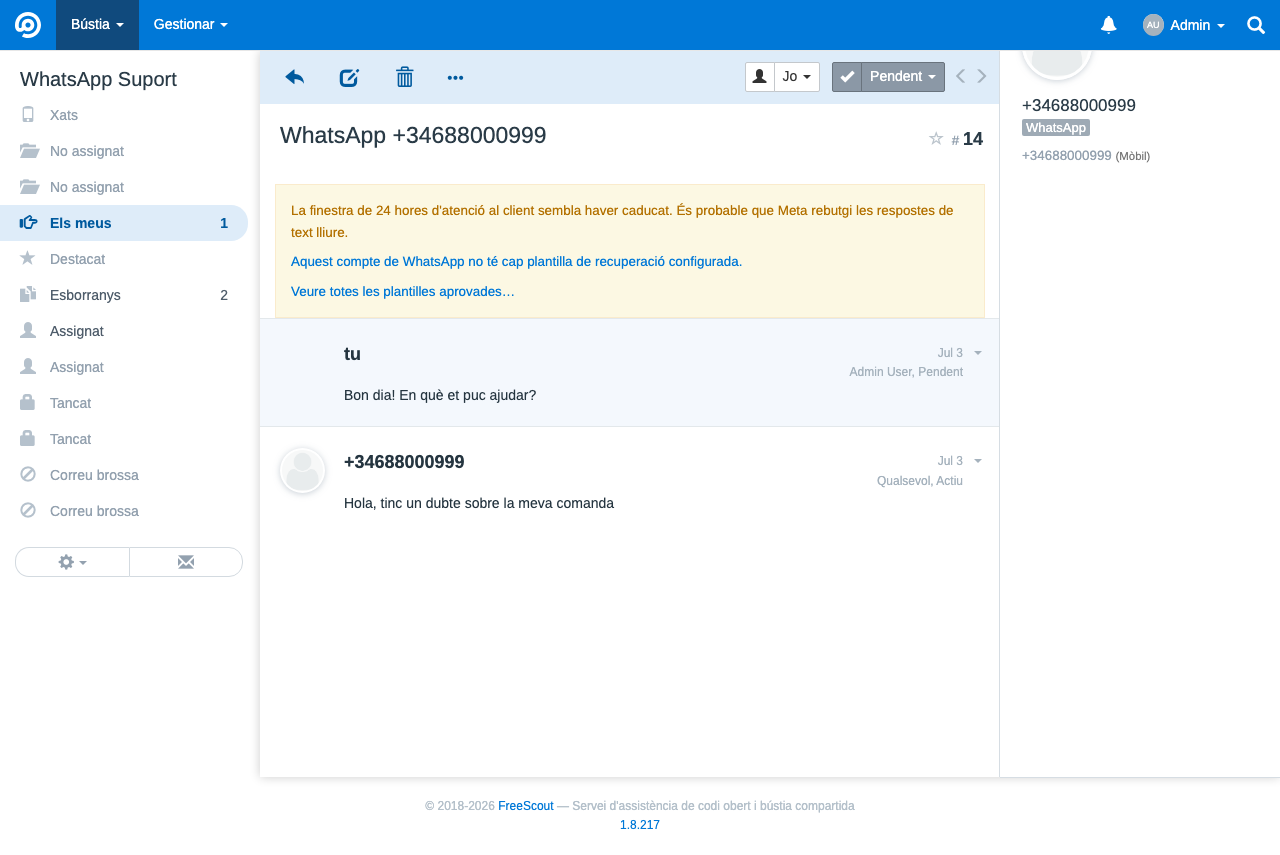
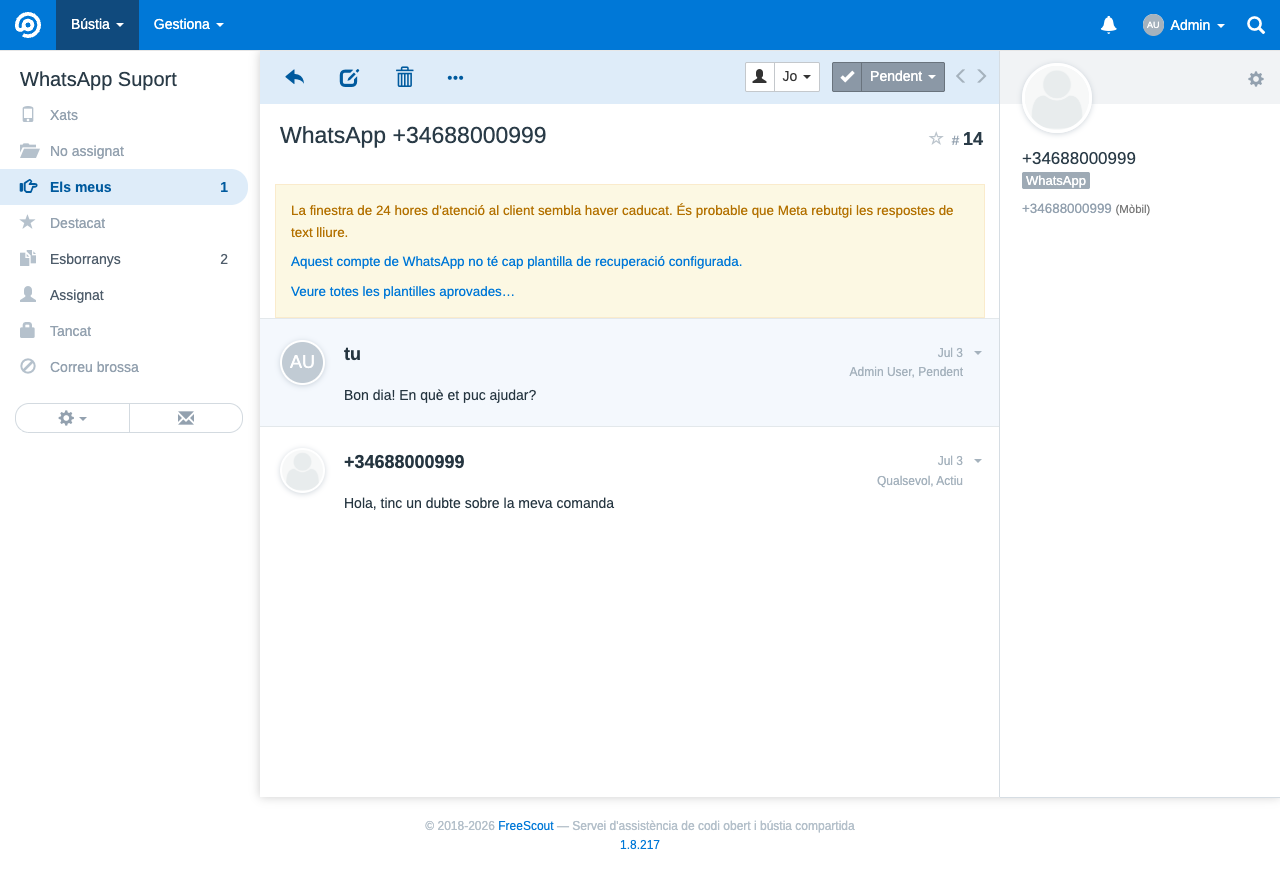
Remove the duplicate folders created with every new mailbox
The account form saved the mailbox and then called createPublicFolders()
itself, unaware that the core MailboxObserver already runs it on the `created`
model event, and that it inserts without checking. Every mailbox created by
the module ended up with two copies of Unassigned, Drafts, Assigned, Closed,
Deleted and Spam. Personal folders were spared, because createUsersFolders()
skips users that already have them, which is why the sidebar showed a mix of
single and doubled entries.

Present since the first release, and visible in the README conversation
screenshot all along.

- The controller no longer creates folders; core owns that.
- A migration removes the duplicates on mailboxes linked to a WhatsApp
  account, remapping conversations and the conversation_folder pivot first, so
  nothing that lived in the copy being deleted is lost. Mailboxes the module
  never created are left alone.
- MailboxFoldersTest covers both directions: the module must not duplicate,
  and core must keep creating them.
- Conversation screenshots retaken in the three languages.

Closes #30

diff --git a/Database/Migrations/2026_08_31_000001_remove_duplicate_mailbox_folders.php b/Database/Migrations/2026_08_31_000001_remove_duplicate_mailbox_folders.php
@@ -1,0 +1,132 @@
+<?php
+
+use Illuminate\Database\Migrations\Migration;
+use Illuminate\Support\Facades\DB;
+use Illuminate\Support\Facades\Log;
+use Illuminate\Support\Facades\Schema;
+
+/**
+ * Repairs the duplicate folders left behind by issue #30.
+ *
+ * Until this release the account form created the mailbox and then called
+ * createPublicFolders() itself, unaware that the core MailboxObserver already
+ * does exactly that on the `created` model event. createPublicFolders() inserts
+ * unconditionally, so every mailbox the module created got two copies of
+ * Unassigned, Drafts, Assigned, Closed, Deleted and Spam. Personal folders were
+ * spared because createUsersFolders() skips users that already have them.
+ *
+ * Only mailboxes linked to a WhatsApp account are touched. Duplicates elsewhere
+ * would not come from this module, and a module has no business reshaping the
+ * folder list of a mailbox it does not own.
+ */
+class RemoveDuplicateMailboxFolders extends Migration
+{
+    public function up()
+    {
+        if (!Schema::hasTable('meta_whatsapp_accounts') || !Schema::hasTable('folders')) {
+            return;
+        }
+
+        $mailboxIds = DB::table('meta_whatsapp_accounts')
+            ->whereNotNull('mailbox_id')
+            ->distinct()
+            ->pluck('mailbox_id')
+            ->all();
+
+        if (!$mailboxIds) {
+            return;
+        }
+
+        $groups = DB::table('folders')
+            ->select('mailbox_id', 'user_id', 'type')
+            ->whereIn('mailbox_id', $mailboxIds)
+            ->groupBy('mailbox_id', 'user_id', 'type')
+            ->havingRaw('count(*) > 1')
+            ->get();
+
+        $removed  = 0;
+        $affected = [];
+
+        foreach ($groups as $group) {
+            $ids = DB::table('folders')
+                ->where('mailbox_id', $group->mailbox_id)
+                ->where('type', $group->type)
+                ->when(
+                    $group->user_id === null,
+                    function ($query) {
+                        return $query->whereNull('user_id');
+                    },
+                    function ($query) use ($group) {
+                        return $query->where('user_id', $group->user_id);
+                    }
+                )
+                ->orderBy('id')
+                ->pluck('id')
+                ->all();
+
+            // The oldest row is the one the observer created, and the one the
+            // counters and any existing conversations already point at.
+            $keep    = array_shift($ids);
+            $discard = $ids;
+
+            if (!$discard) {
+                continue;
+            }
+
+            DB::table('conversations')->whereIn('folder_id', $discard)->update(['folder_id' => $keep]);
+
+            // conversation_folder has a UNIQUE(folder_id, conversation_id), and
+            // the same conversation may sit in both copies, so the rows are
+            // collected and re-inserted rather than updated in place.
+            $conversationIds = DB::table('conversation_folder')
+                ->whereIn('folder_id', $discard)
+                ->distinct()
+                ->pluck('conversation_id')
+                ->all();
+
+            DB::table('conversation_folder')->whereIn('folder_id', $discard)->delete();
+
+            if ($conversationIds) {
+                $existing = DB::table('conversation_folder')
+                    ->where('folder_id', $keep)
+                    ->pluck('conversation_id')
+                    ->all();
+
+                foreach (array_chunk(array_diff($conversationIds, $existing), 500) as $chunk) {
+                    DB::table('conversation_folder')->insert(array_map(function ($conversationId) use ($keep) {
+                        return ['folder_id' => $keep, 'conversation_id' => $conversationId];
+                    }, $chunk));
+                }
+            }
+
+            DB::table('folders')->whereIn('id', $discard)->delete();
+
+            $removed += count($discard);
+            $affected[$group->mailbox_id] = true;
+        }
+
+        if (!$removed) {
+            return;
+        }
+
+        foreach (array_keys($affected) as $mailboxId) {
+            $mailbox = \App\Mailbox::find($mailboxId);
+            if ($mailbox) {
+                $mailbox->updateFoldersCounters();
+            }
+        }
+
+        Log::info('[MetaWhatsApp] Removed duplicate mailbox folders (issue #30)', [
+            'folders_removed' => $removed,
+            'mailbox_ids'     => array_keys($affected),
+        ]);
+    }
+
+    /**
+     * Deliberately empty: the duplicates were a defect, not data. Recreating
+     * them on rollback would only put the sidebar back the way it was broken.
+     */
+    public function down()
+    {
+    }
+}

diff --git a/Tests/MailboxFoldersTest.php b/Tests/MailboxFoldersTest.php
@@ -1,0 +1,119 @@
+<?php
+
+namespace Modules\MetaWhatsApp\Tests;
+
+use App\Folder;
+use App\Mailbox;
+use App\User;
+use Illuminate\Foundation\Testing\DatabaseTransactions;
+use Modules\MetaWhatsApp\Models\WhatsAppAccount;
+use Modules\MetaWhatsApp\Services\WhatsAppApiClient;
+
+/**
+ * Issue #30: creating a channel with "New mailbox" produced two copies of
+ * every public folder in the sidebar (Unassigned, Drafts, Assigned, Closed,
+ * Deleted, Spam). The controller called createPublicFolders() after saving the
+ * mailbox, not knowing the core MailboxObserver already does it on the
+ * `created` model event, and createPublicFolders() inserts unconditionally.
+ *
+ * Personal folders (Mine, Starred) were never duplicated, because
+ * createUsersFolders() skips users that already have folders -- which is
+ * exactly why the sidebar showed a mix of single and doubled entries.
+ */
+class MailboxFoldersTest extends TestCase
+{
+    use DatabaseTransactions;
+
+    protected function makeAdminUser(): User
+    {
+        $admin = new User();
+        $admin->first_name = 'Admin';
+        $admin->last_name  = 'Test';
+        $admin->email      = 'admin-' . uniqid() . '@example.com';
+        $admin->password   = bcrypt('secret');
+        $admin->role       = User::ROLE_ADMIN;
+        $admin->save();
+
+        return $admin;
+    }
+
+    /**
+     * The webhook subscription is a real HTTP call in store(); the folder
+     * count does not depend on its outcome, so it is stubbed out.
+     */
+    protected function fakeWebhookSubscription(): void
+    {
+        $this->app->bind(WhatsAppApiClient::class, function ($app, $parameters) {
+            return new class ($parameters['account']) extends WhatsAppApiClient {
+                public function subscribeWebhook(): array
+                {
+                    return ['ok' => true, 'error_code' => null, 'error_message' => null];
+                }
+            };
+        });
+    }
+
+    protected function storePayload(array $overrides = []): array
+    {
+        $phoneNumberId = 'test' . mt_rand(100000000, 999999999);
+
+        return array_merge([
+            'name'            => 'PHPUnit WhatsApp',
+            'phone_number'    => '+34600999888',
+            'phone_number_id' => $phoneNumberId,
+            'waba_id'         => 'test-waba',
+            'verify_token'    => bin2hex(random_bytes(32)),
+            'access_token'    => self::TEST_ACCESS_TOKEN . '-long-enough',
+            'app_secret'      => self::TEST_APP_SECRET . '-long-enough',
+            'mailbox_mode'    => 'new',
+            'mailbox_name'    => 'PHPUnit WhatsApp Mailbox',
+        ], $overrides);
+    }
+
+    public function test_new_mailbox_gets_exactly_one_folder_per_public_type()
+    {
+        $this->fakeWebhookSubscription();
+        $admin   = $this->makeAdminUser();
+        $payload = $this->storePayload();
+
+        $this->actingAs($admin)
+            ->withoutMiddleware(\App\Http\Middleware\VerifyCsrfToken::class)
+            ->post($this->url('/meta-whatsapp/settings'), $payload);
+
+        $account = WhatsAppAccount::where('phone_number_id', $payload['phone_number_id'])->first();
+        $this->assertNotNull($account, 'the account was not created');
+
+        foreach (Folder::$public_types as $type) {
+            $this->assertEquals(
+                1,
+                Folder::where('mailbox_id', $account->mailbox_id)->where('type', $type)->count(),
+                'public folder type ' . $type . ' is duplicated in the new mailbox (issue #30)'
+            );
+        }
+    }
+
+    /**
+     * The same assertion stated the other way round, so the test still fails
+     * if a future core release moves folder creation out of the observer:
+     * the mailbox must end up with folders without the module creating any.
+     */
+    public function test_saving_a_mailbox_alone_already_creates_its_folders()
+    {
+        $mailbox = new Mailbox();
+        $mailbox->name       = 'PHPUnit folders';
+        $mailbox->email      = 'whatsapp-folders-' . uniqid() . '@channel.internal';
+        $mailbox->out_method = Mailbox::OUT_METHOD_PHP_MAIL;
+        $mailbox->in_server  = '';
+        $mailbox->out_server = '';
+        $mailbox->save();
+
+        foreach (Folder::$public_types as $type) {
+            $this->assertEquals(
+                1,
+                Folder::where('mailbox_id', $mailbox->id)->where('type', $type)->count(),
+                'the core observer no longer creates public folder type ' . $type
+                . '; the module relies on it since issue #30'
+            );
+        }
+    }
+}

diff --git a/Resources/lang/nl/metawhatsapp.php b/Resources/lang/nl/metawhatsapp.php
@@ -48,7 +48,7 @@ return [
     'template_cost_warning'        => 'Meta rekent per afgeleverd templatebericht kosten.',
     'template_lang'                => 'Taalcode van het template',
     'template_threshold'           => 'Drempel voor een verlopen venster (minuten)',
-    'template_threshold_help'      => 'Meta hanteert een venster van 24 uur na het laatste bericht van de klant. Deze instelling bepaalt alleen wanneer de module het venster als verlopen gaat behandelen, als eigen veiligheidsmarge — de regel van Meta verandert er niet door. <a href="https://developers.facebook.com/documentation/business-messaging/whatsapp/messages/send-messages" target="_blank" rel="noopener">Bekijk de documentatie van Meta</a>.',
+    'template_threshold_help'      => 'Meta hanteert een venster van 24 uur na het laatste bericht van de klant. Deze instelling bepaalt alleen wanneer de module het venster als verlopen gaat behandelen, als eigen veiligheidsmarge - de regel van Meta verandert er niet door. <a href="https://developers.facebook.com/documentation/business-messaging/whatsapp/messages/send-messages" target="_blank" rel="noopener">Bekijk de documentatie van Meta</a>.',
 
     'templates_multi_help'         => 'Maximaal vijf templates, bijvoorbeeld één per taal. Een regel zonder naam of zonder taalcode wordt bij het opslaan weggelaten.',
     'template_row_id'              => 'Naam van het template',
@@ -88,7 +88,7 @@ return [
 
     // Knop "verbinding testen" en het gezondheidsoverzicht van het account.
     'test_connection_button'       => 'Verbinding testen',
-    'test_connection_success'      => 'Verbinding in orde — herkend als ":name".',
+    'test_connection_success'      => 'Verbinding in orde - herkend als ":name".',
     'test_connection_failed'       => 'De verbindingstest is mislukt: :error',
     'test_connection_unknown_error' => 'Onbekende fout.',
     'health_snapshot_title'        => 'Gezondheid van het account',
@@ -99,7 +99,7 @@ return [
     'health_last_reactivation'     => 'Laatst heractiveerd',
     'health_inactive_help'         => 'Zolang het kanaal inactief is, kan er niets verzonden worden. Gebruik hieronder "Verbinding testen": lukt die, dan wordt het kanaal automatisch weer actief.',
     'health_never'                 => 'Nooit',
-    'account_reactivated'          => 'Verbinding hersteld — account automatisch weer actief (herkend als ":name").',
+    'account_reactivated'          => 'Verbinding hersteld - account automatisch weer actief (herkend als ":name").',
 
     // Melding in het gesprek als het venster verlopen is.
     'window_expired_notice'        => 'Het venster van 24 uur lijkt verlopen. Een gewoon antwoord wordt waarschijnlijk door Meta geweigerd.',
@@ -107,8 +107,8 @@ return [
     'template_sent'                => 'Het templatebericht staat klaar om verzonden te worden.',
     'template_not_configured'      => 'Voor dit WhatsApp-account is geen template ingesteld om het gesprek te heropenen.',
     'template_no_phone'            => 'Bij dit gesprek is geen telefoonnummer te vinden.',
-    'template_no_phone_notice'     => 'Van deze contactpersoon is geen telefoonnummer bekend (contacten met alleen een WhatsApp-ID kunnen nog geen template ontvangen — staat gepland voor fase 2b).',
-    'template_window_open'         => 'Het venster is weer open — stuur een gewoon antwoord in plaats van een betaald template.',
+    'template_no_phone_notice'     => 'Van deze contactpersoon is geen telefoonnummer bekend (contacten met alleen een WhatsApp-ID kunnen nog geen template ontvangen - staat gepland voor fase 2b).',
+    'template_window_open'         => 'Het venster is weer open - stuur een gewoon antwoord in plaats van een betaald template.',
     'template_already_sent'        => 'Er is zojuist al een template verstuurd voor dit gesprek.',
 
     // Keuzelijst met templates die Meta heeft goedgekeurd.

diff --git a/Http/Controllers/MetaWhatsAppController.php b/Http/Controllers/MetaWhatsAppController.php
@@ -40,9 +40,14 @@ class MetaWhatsAppController extends Controller
             $mailbox->out_method = Mailbox::OUT_METHOD_PHP_MAIL;
             $mailbox->in_server  = '';
             $mailbox->out_server = '';
+            // Folders are created by the core MailboxObserver on the
+            // `created` model event (createPublicFolders + syncPersonalFolders
+            // + createAdminPersonalFolders). Calling them again here produced a
+            // second copy of every public folder, because createPublicFolders()
+            // inserts unconditionally while the personal ones skip users that
+            // already have folders -- which is why only Unassigned, Drafts,
+            // Assigned, Closed, Deleted and Spam appeared twice (issue #30).
             $mailbox->save();
-            $mailbox->createPublicFolders();
-            $mailbox->createAdminPersonalFolders();
             $mailboxId   = $mailbox->id;
             $autoCreated = true;
         } else {

diff --git a/README.es.md b/README.es.md
@@ -61,6 +61,12 @@ Queda fuera de alcance:
 - Indicadores visuales de `delivered/read` en la conversación (el `read` solo abre el thread — ver arriba).
 - Chatbots, automatizaciones avanzadas o integraciones multicanal compartidas.
 
+## Novedades en la v1.9.1
+
+- **Corrección**: cada buzón creado por el módulo llevaba dos copias de cada carpeta compartida en la barra lateral (No asignado, Borradores, Asignado, Cerrado, Eliminado, Spam). El formulario de la cuenta creaba esas carpetas después de guardar el buzón, sin saber que el `MailboxObserver` del propio FreeScout ya lo hace en el evento `created`. Las carpetas personales (Propio, Destacados) se salvaron, porque el núcleo salta a los usuarios que ya las tienen, y por eso la barra lateral mostraba una mezcla de entradas simples y dobles. Estaba desde la primera versión, y se veía hasta ahora en la captura de conversación de este mismo README (#30).
+- **Migración de reparación**: se eliminan las copias de los buzones vinculados a una cuenta de WhatsApp, y cualquier conversación que estuviera en la copia que desaparece se traslada a la que se queda, de modo que no se pierde nada. Los buzones que el módulo nunca ha creado no se tocan.
+- **Traducción al neerlandés**, aportada por [@jeroenedig](https://github.com/jeroenedig) (#31). La interfaz del módulo ya está disponible en inglés, catalán, castellano y neerlandés.
+
 ## Novedades en la v1.9.0
 
 - **Una sola fuente de plantillas.** La plantilla heredada (`template_name` / `template_lang`) y las cinco ranuras eran una u otra: con una ranura válida, el par antiguo no se leía nunca, mientras el formulario le daba el lugar principal. Una migración pliega el valor que quede en la primera ranura libre y elimina ambas columnas. Nunca sobrescribe una ranura con contenido, y deja el valor en el registro si las cinco están llenas, caso en que ya era inalcanzable.

diff --git a/README.ca.md b/README.ca.md
@@ -61,6 +61,12 @@ Queda fora d'abast:
 - Indicadors visuals de `delivered/read` a la conversa (el `read` només obre el thread — vegeu més amunt).
 - Chatbots, automatitzacions avançades o integracions multicanal compartides.
 
+## Novetats a la v1.9.1
+
+- **Correcció**: cada bústia creada pel mòdul duia dues còpies de cada carpeta compartida a la barra lateral (No assignat, Esborranys, Assignat, Tancat, Suprimit, Correu brossa). El formulari del compte creava aquestes carpetes després de desar la bústia, sense saber que el `MailboxObserver` del propi FreeScout ja ho fa a l'esdeveniment `created`. Les carpetes personals (Els meus, Destacat) se'n van salvar, perquè el nucli salta els usuaris que ja en tenen, i per això la barra lateral mostrava una barreja d'entrades simples i dobles. Hi era des de la primera versió, i es veia fins ara a la captura de conversa d'aquest mateix README (#30).
+- **Migració de reparació**: s'eliminen les còpies de les bústies vinculades a un compte de WhatsApp, i qualsevol conversa que estigués a la còpia que marxa es trasllada a la que es queda, de manera que no es perd res. Les bústies que el mòdul no ha creat mai no es toquen.
+- **Traducció al neerlandès**, aportada per [@jeroenedig](https://github.com/jeroenedig) (#31). La interfície del mòdul ja està disponible en anglès, català, castellà i neerlandès.
+
 ## Novetats a la v1.9.0
 
 - **Una sola font de plantilles.** La plantilla heretada (`template_name` / `template_lang`) i les cinc ranures eren un o l'altre: amb una ranura vàlida, el parell antic no es llegia mai, mentre que el formulari li donava el lloc principal. Una migració plega el valor que quedi a la primera ranura lliure i elimina les dues columnes. Mai sobreescriu una ranura amb contingut, i deixa el valor al registre si totes cinc estan plenes, cas en què ja era inabastable.

diff --git a/README.md b/README.md
@@ -61,6 +61,12 @@ Out of scope:
 - Visual `delivered/read` indicators in the conversation (the `read` receipt only opens the thread — see above).
 - Chatbots, advanced automations or shared multichannel integrations.
 
+## What's new in v1.9.1
+
+- **Fix**: every mailbox created by the module carried two copies of each shared folder in the sidebar (Unassigned, Drafts, Assigned, Closed, Deleted, Spam). The account form created those folders after saving the mailbox, not knowing FreeScout's own `MailboxObserver` already does it on the `created` event. Personal folders (Mine, Starred) were spared, because core skips users that already have them, which is why the sidebar showed a mix of single and doubled entries. Present since the first release, and visible in this README's own conversation screenshot until now (#30).
+- **Repair migration**: the duplicates are removed from mailboxes linked to a WhatsApp account, and any conversation sitting in the copy that goes away is moved into the one that stays, so nothing is lost. Mailboxes the module never created are left untouched.
+- **Dutch translation**, contributed by [@jeroenedig](https://github.com/jeroenedig) (#31). The module interface is now available in English, Catalan, Castellano and Dutch.
+
 ## What's new in v1.9.0
 
 - **One source of truth for templates.** The legacy single template (`template_name` / `template_lang`) and the five slots were a hard either/or: one valid slot made the older pair unreadable, while the form gave the pair top billing. A migration folds any surviving value into the first free slot and drops both columns. It never overwrites a slot that has content, and logs the value if all five are taken, where it was already unreachable.
